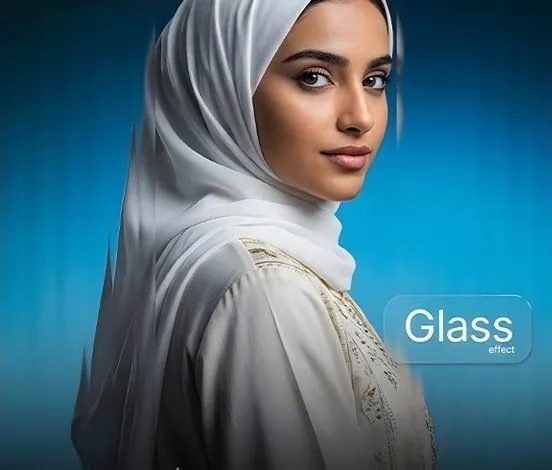
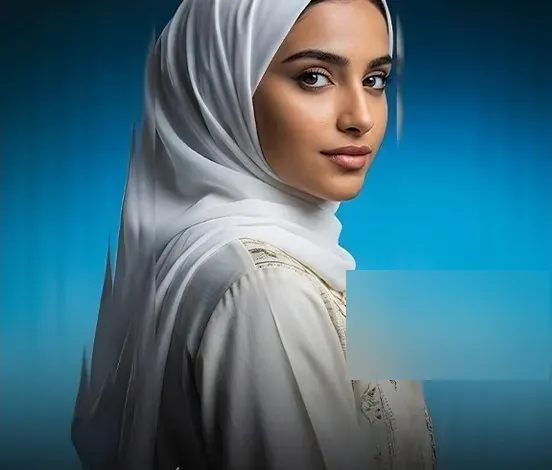
Mobile polish: work list layout and cleaner portrait tags
Stack case names above their details in the home work list on phones,
align Latin names to the right, and blur the original artwork tag text
under the glass labels on the portraits.

Claude-Session: https://claude.ai/code/session_01MUYZSjhY19YT2fVkSRmxr6

Changed region(s): [[0.6159, 0.566, 0.9547, 0.834], [0.7699, 0.566, 0.9239, 0.6255], [0.9547, 0.6255, 1.0, 0.6553]]

diff --git a/assets/css/style.css b/assets/css/style.css
@@ -614,3 +614,9 @@ a.cell:hover .go { transform: scale(1); opacity: 1; }
 .tquote figcaption b { display: block; font-size: 15px; }
 .tquote figcaption span { font-size: 13px; color: var(--muted); }
 .founder__card--photo { justify-content: flex-end; }
+@media (max-width: 640px) {
+  .windex a { grid-template-columns: 34px 1fr; gap: 2px 12px; padding: 14px 8px; }
+  .windex span.s { grid-column: 2; font-size: 13px; }
+  .windex strong { font-size: 17px; }
+}
+.windex strong { text-align: right; }
